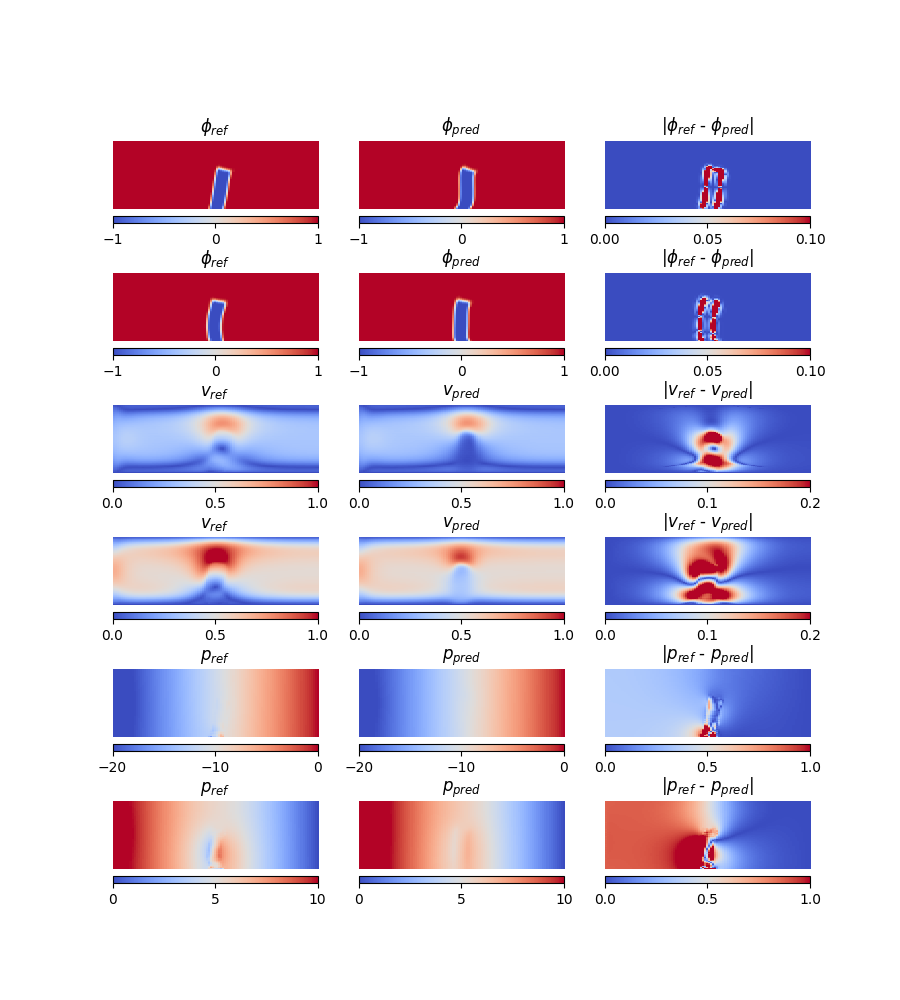
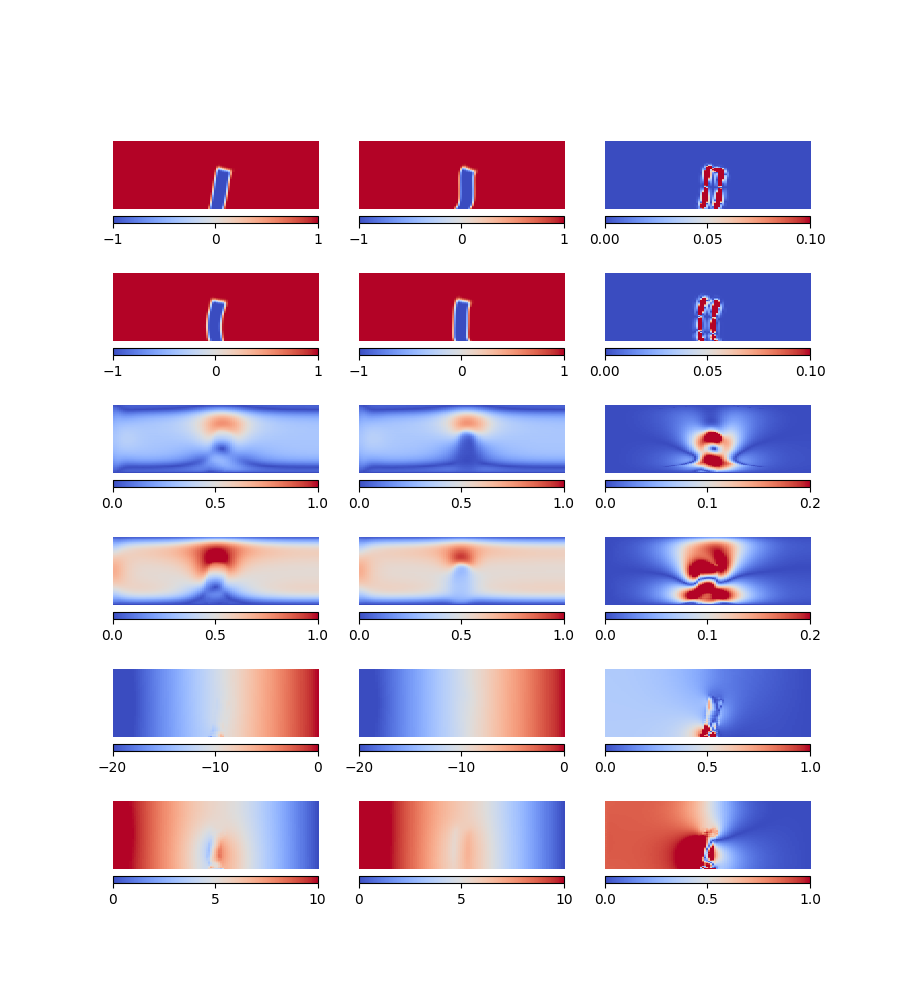
.

diff --git a/Thrombus/Plot/lmd_2_10_comp/lmd_comp.py b/Thrombus/Plot/lmd_2_10_comp/lmd_comp.py
@@ -109,7 +109,7 @@ def main():
                     borderpad=-1,
                     )
         fig.colorbar(_h, ax=_ax, ticks=phi_range, cax = axins, orientation='horizontal')
-        _ax.set_title('$\phi_{ref}$')
+        # _ax.set_title('$\phi_{ref}$')
 
         _ax = fig.add_subplot(_gs[1])
         _ax.axis('off') 
@@ -121,7 +121,7 @@ def main():
                     loc='lower center',
                     borderpad=-1,
                     )
-        _ax.set_title('$\phi_{pred}$')
+        # _ax.set_title('$\phi_{pred}$')
         
         fig.colorbar(_h, ax=_ax, ticks=phi_range, cax = axins, orientation='horizontal')
 
@@ -136,7 +136,7 @@ def main():
                     borderpad=-1,
                     )
         fig.colorbar(_h, ax=_ax, ticks=phi_error, cax = axins, orientation='horizontal')
-        _ax.set_title('|$\phi_{ref}$ - $\phi_{pred}$|')
+        # _ax.set_title('|$\phi_{ref}$ - $\phi_{pred}$|')
 
     ## plotting velocity
     vel_range = np.linspace(0, 1.0, 3)[:,None]
@@ -156,7 +156,7 @@ def main():
                     borderpad=-1,
                     )
         fig.colorbar(_h, ax=_ax, ticks=vel_range, cax = axins, orientation='horizontal')
-        _ax.set_title('$v_{ref}$')
+        # _ax.set_title('$v_{ref}$')
 
         _ax = fig.add_subplot(_gs[1])
         _ax.axis('off') 
@@ -169,7 +169,7 @@ def main():
                     borderpad=-1,
                     )
         fig.colorbar(_h, ax=_ax, ticks=vel_range, cax = axins, orientation='horizontal')
-        _ax.set_title('$v_{pred}$')
+        # _ax.set_title('$v_{pred}$')
 
         _ax = fig.add_subplot(_gs[2])
         _ax.axis('off') 
@@ -182,7 +182,7 @@ def main():
                     borderpad=-1,
                     )
         fig.colorbar(_h, ax=_ax, ticks=vel_error, cax = axins, orientation='horizontal')
-        _ax.set_title('|$v_{ref}$ - $v_{pred}$|')
+        # _ax.set_title('|$v_{ref}$ - $v_{pred}$|')
 
     ## plotting pressure
     p_range = np.linspace(-20, 0, 3)[:,None]
@@ -201,7 +201,7 @@ def main():
                 borderpad=-1,
                 )
     fig.colorbar(_h, ax=_ax, ticks=p_range, cax = axins, orientation='horizontal')
-    _ax.set_title('$p_{ref}$')
+    # _ax.set_title('$p_{ref}$')
 
     _ax = fig.add_subplot(_gs[1])
     _ax.axis('off') 
@@ -214,7 +214,7 @@ def main():
                 borderpad=-1,
                 )
     fig.colorbar(_h, ax=_ax, ticks=p_range, cax = axins, orientation='horizontal')
-    _ax.set_title('$p_{pred}$')
+    # _ax.set_title('$p_{pred}$')
 
     _ax = fig.add_subplot(_gs[2])
     _ax.axis('off') 
@@ -227,7 +227,7 @@ def main():
                 borderpad=-1,
                 )
     fig.colorbar(_h, ax=_ax, ticks=p_error, cax = axins, orientation='horizontal')
-    _ax.set_title('|$p_{ref}$ - $p_{pred}$|')
+    # _ax.set_title('|$p_{ref}$ - $p_{pred}$|')
 
     #######
     p_range = np.linspace(0, 10, 3)[:,None]
@@ -245,7 +245,7 @@ def main():
                 borderpad=-1,
                 )
     fig.colorbar(_h, ax=_ax, ticks=p_range, cax = axins, orientation='horizontal')
-    _ax.set_title('$p_{ref}$')
+    # _ax.set_title('$p_{ref}$')
 
     _ax = fig.add_subplot(_gs[1])
     _ax.axis('off') 
@@ -258,7 +258,7 @@ def main():
                 borderpad=-1,
                 )
     fig.colorbar(_h, ax=_ax, ticks=p_range, cax = axins, orientation='horizontal')
-    _ax.set_title('$p_{pred}$')
+    # _ax.set_title('$p_{pred}$')
 
     _ax = fig.add_subplot(_gs[2])
     _ax.axis('off') 
@@ -271,10 +271,7 @@ def main():
                 borderpad=-1,
                 )
     fig.colorbar(_h, ax=_ax, ticks=p_error, cax = axins, orientation='horizontal')
-    _ax.set_title('|$p_{ref}$ - $p_{pred}$|')
-
-
-
+    # _ax.set_title('|$p_{ref}$ - $p_{pred}$|')
 
     plt.savefig('append_fig_lmd_comp.png')
     plt.close()
